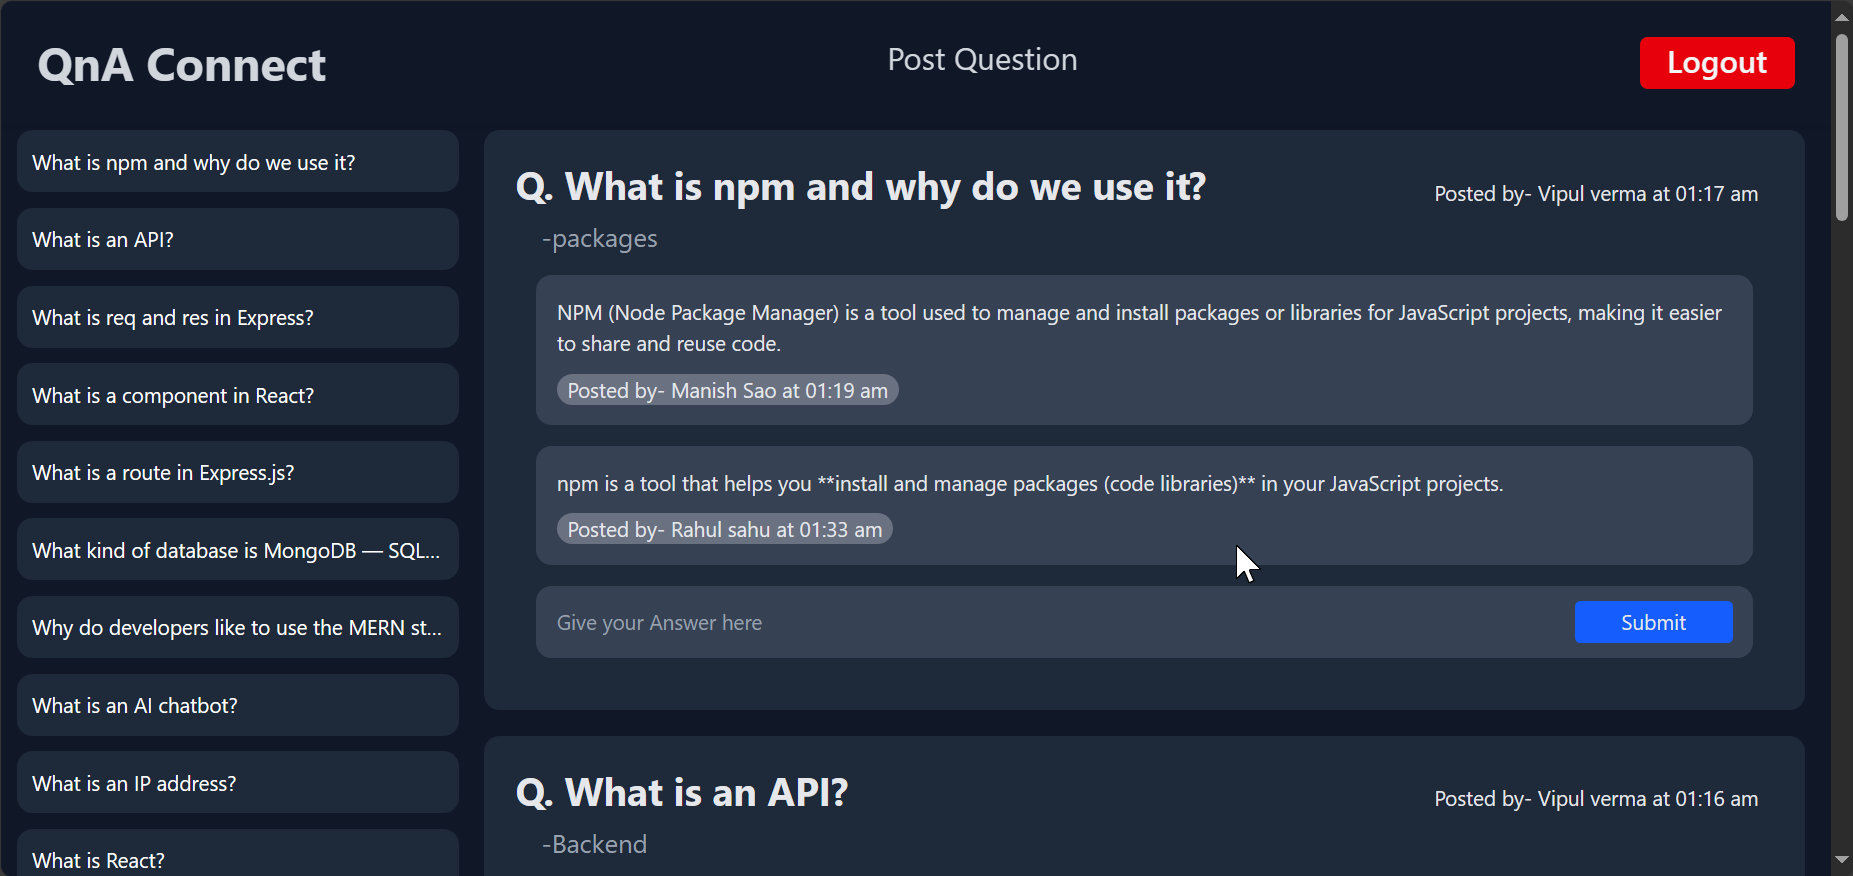
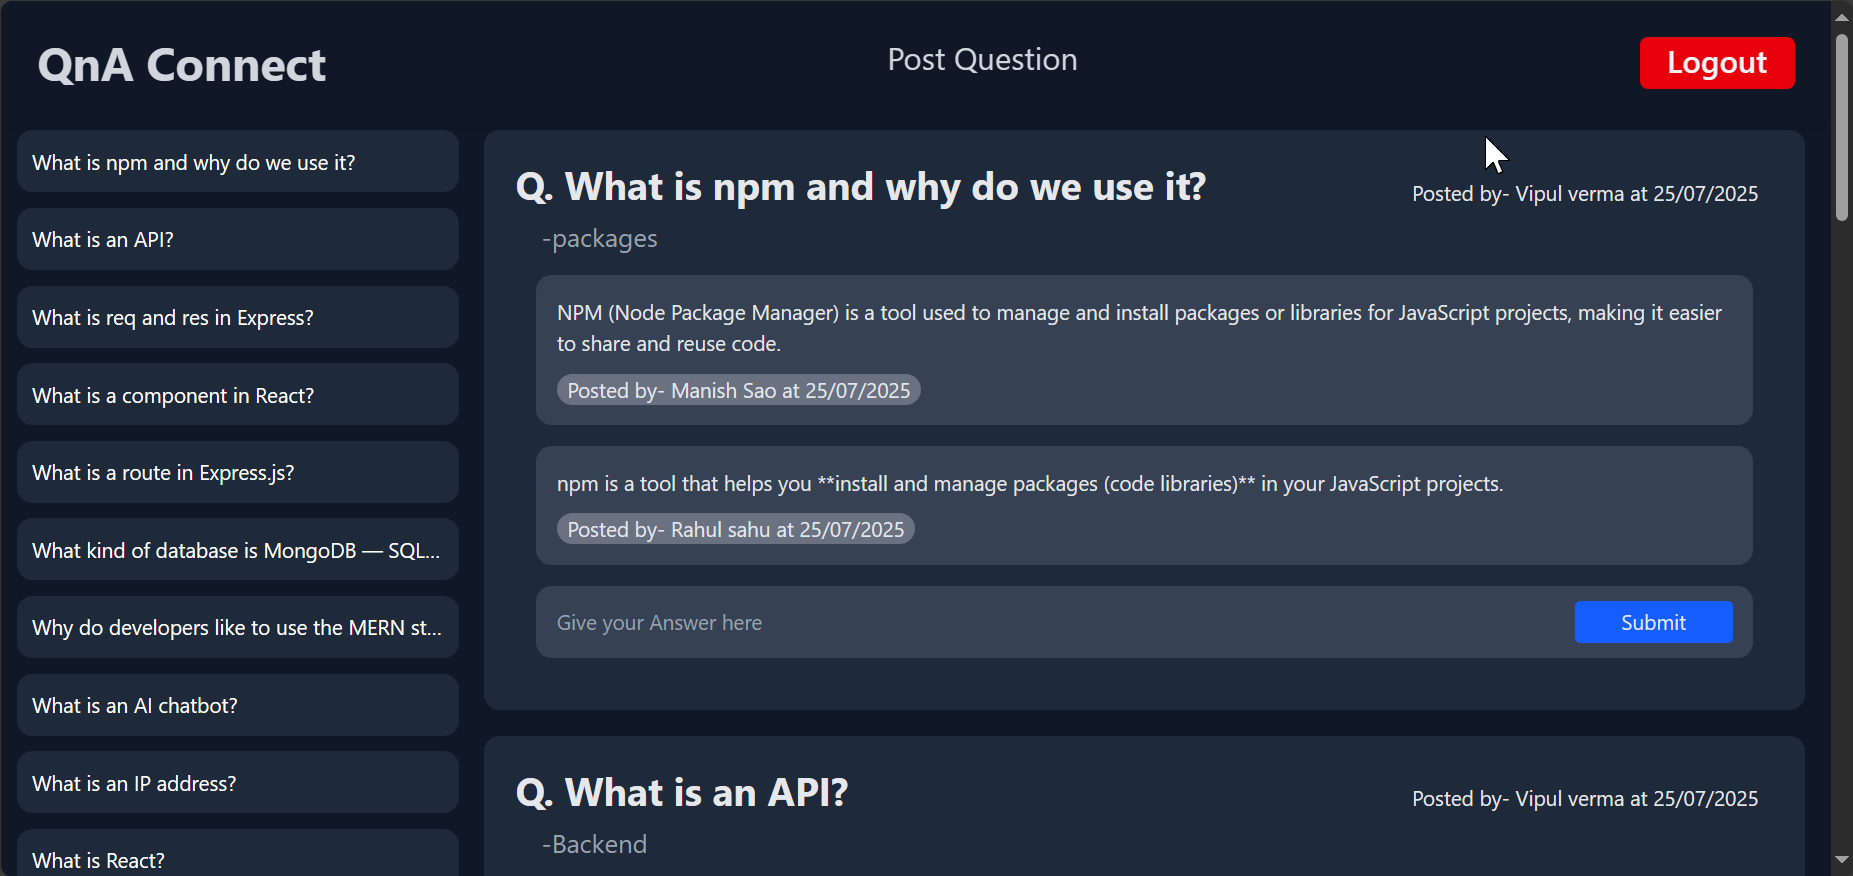
update screenshot

diff --git a/Frontend/src/Components/Feed.jsx b/Frontend/src/Components/Feed.jsx
@@ -16,7 +16,7 @@ const Feed = () => {
     try {
       const allQue = await axios.get(`${BASE}/allQue`);
       setFeedQues(allQue.data);
-    //   console.log(allQue);
+      //   console.log(allQue);
     } catch (err) {
       console.log(err);
     }
@@ -26,7 +26,7 @@ const Feed = () => {
     try {
       const allAns = await axios.get(`${BASE}/allAns`);
       setFeedAns(allAns.data);
-    //   console.log(allAns);
+      //   console.log(allAns);
     } catch (err) {
       console.log(err);
     }
@@ -51,7 +51,7 @@ const Feed = () => {
     } catch (err) {
       console.log(err);
       toast.error(`${err.response.data}`);
-       setAnswer("");
+      setAnswer("");
     }
   };
   return (
@@ -77,15 +77,17 @@ const Feed = () => {
                       Q. {que.question}
                     </h1>
                     <h2 className="text-gray-400 text-xl pl-5">
-                         -{que.description}
+                      -{que.description}
                     </h2>
                   </div>
                   <div>
                     <p className="p-3">
                       <span>Posted by- {que.userId?.name}</span> at{" "}
-                      {new Date(que.updatedAt).toLocaleTimeString([], {
-                        hour: "2-digit",
-                        minute: "2-digit",
+                      {new Date(que.updatedAt).toLocaleString([], {
+                        year: "numeric",
+                        month: "2-digit",
+                        day: "2-digit",
+                        
                       })}
                     </p>
                   </div>
@@ -97,11 +99,13 @@ const Feed = () => {
                       return (
                         <div className="bg-gray-700 rounded-xl p-4 m-4">
                           <h2 className="mb-3">{ans.answer}</h2>
-                          <p className="bg-gray-500 w-max rounded-3xl px-2">
-                            <span >Posted by- {ans.userId?.name}</span> at{" "}
-                            {new Date(ans.updatedAt).toLocaleTimeString([], {
-                              hour: "2-digit",
-                              minute: "2-digit",
+                          <p className="bg-gray-500 max-w-max rounded-3xl px-2">
+                            <span>Posted by- {ans.userId?.name}</span> at{" "}
+                            {new Date(ans.updatedAt).toLocaleString([], {
+                              year: "numeric",
+                              month: "2-digit",
+                              day: "2-digit",
+                             
                             })}
                           </p>
                         </div>
@@ -145,5 +149,3 @@ const Feed = () => {
 };
 
 export default Feed;
-
-
